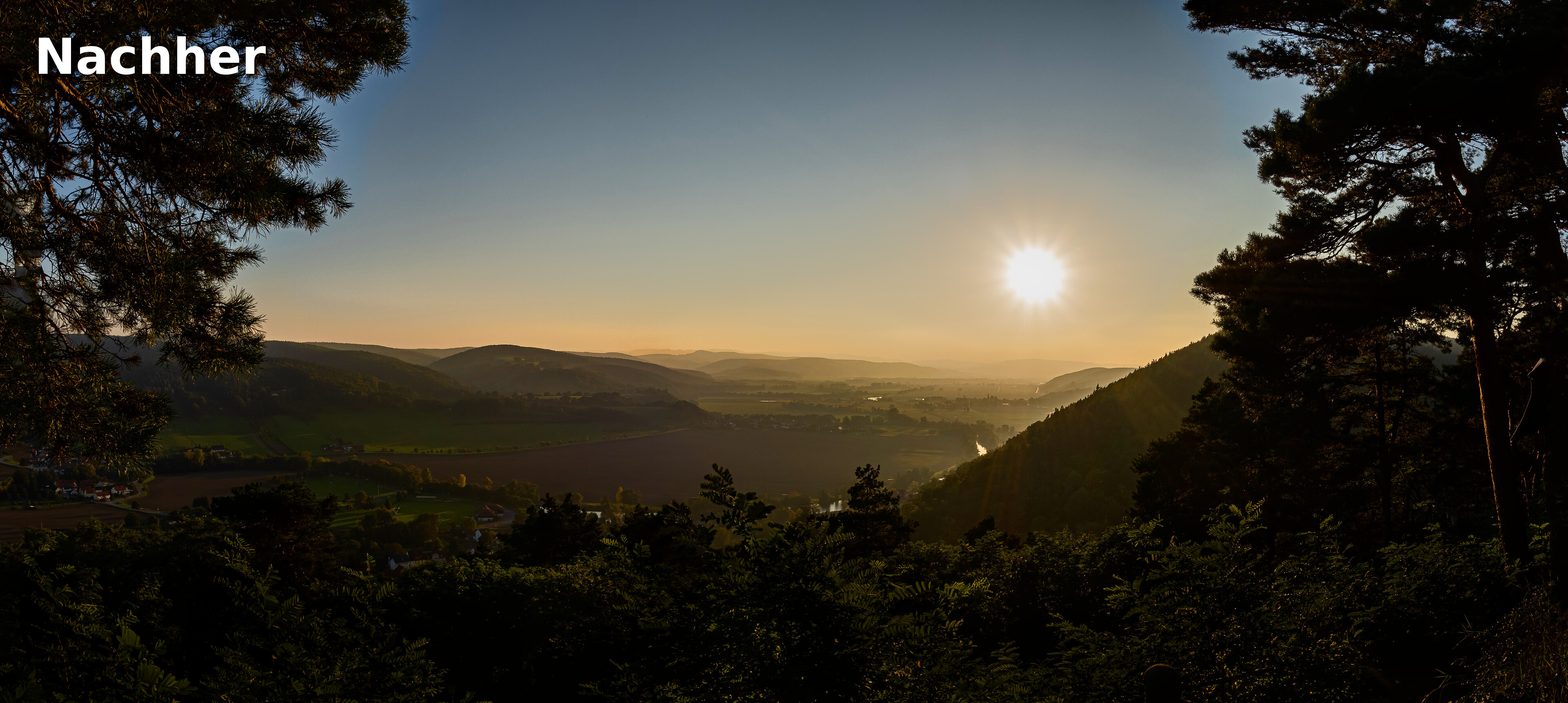
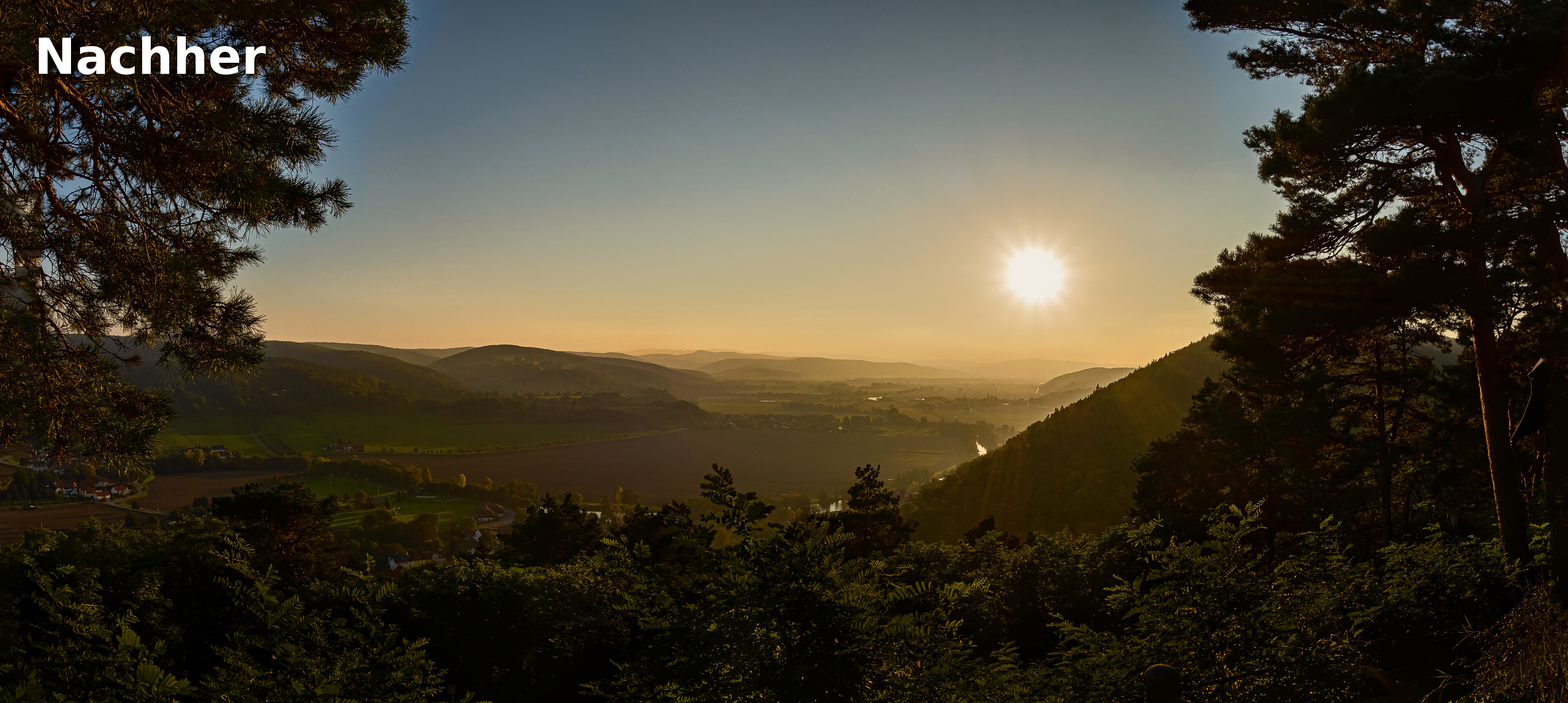
Startseite: Dunstbilder mit den neuesten Einstellungen (Tal heller, mehr Zeichnung), Tabelle der Einstellungen nachgezogen; beim 3D-Betrachter aufklappbarer Hintergrund, was ihn besonders macht

diff --git a/README.md b/README.md
@@ -71,12 +71,11 @@ Panorama ist in rund zehn Sekunden gerechnet.
 
 | Gruppe | Einstellung |
 |---|---|
-| Dunst | Stärke +36, 8 Durchläufe, Klarheit 42 %, Kontrast 22 %, Dynamik 25 %, Schärfe fein 33 %, Helligkeit 76 %, Entstufen 55 %, Dunstfarbe 51 % |
-| Gleiche Farbe | Gesamt 104 %, Luminanz 103 %, Zielwert 45 %, Ausgleichen 18 %, Farbe +4 |
-| Luminanzmaske | Stärke +38 %, Auslaufen 75 %, Verlauf 30 |
-| Licht | Kontrast +10, Tiefen +14, Lichter −100 |
-| Farbe | Dynamik +11 |
-| Körnung | Stärke 14 %, Korngröße 1,0 px, Rauheit 30 |
+| Dunst | Stärke +42, 8 Durchläufe, Klarheit 53 %, Kontrast 12 %, Dynamik 25 %, Schärfe fein 60 %, Helligkeit 85 %, Entstufen 50 %, Dunstfarbe 50 % |
+| Gleiche Farbe | Luminanz 117 %, Zielwert 48 %, Schwellwert 20 %, Farbe +30 |
+| Luminanzmaske | Stärke +19 %, Auslaufen 75 %, Verlauf 30 |
+| Licht | Kontrast +10, Tiefen +8, Lichter −100 |
+| Farbe | Dynamik +19, Sättigung −12 |
 
 </details>
 
@@ -192,6 +191,29 @@ Qualitätsstufe „Hoch“: glatte Rundungen, weiche Umgebungsschatten, Kanten a
 - **Messen:** zwei Flächen anklicken – Abstand und Winkel; Zylinderdurchmesser; Punkt zu Punkt mit ΔX/ΔY/ΔZ.
 - **Bearbeiten:** Längen ändern, Quader oder Zylinder hinzufügen und wegnehmen, Flächen verschieben, Formen zeichnen und aufbauen oder
   herausschneiden – mit Einrasten und Bemaßung, 30 Schritte rückgängig, Speichern als STL.
+
+<details>
+<summary><b>Was den Betrachter besonders macht</b></summary>
+
+- **Nichts sieht runder aus, als es ist.** Glatt gezeichnet werden nur Flächen, die der Betrachter selbst als Zylinder oder Rundung
+  erkannt hat, und nur dort, wo die Datei fein genug unterteilt ist. Ein Zylinder bekommt die exakte Richtung seiner Oberfläche,
+  Ebenen bleiben eben, Kanten scharf. Grob unterteilte Teile erscheinen so kantig, wie sie in der Datei stehen.
+- **Licht, das Formen zeigt.** Mattes Material, ein Hauptlicht von links oben, eine sanfte Aufhellung und eine Umgebungsverdeckung,
+  die Ecken, Bohrungen und Übergänge weich abdunkelt – gleich gut bei einer kleinen Schraube wie bei einem großen Gehäuse. Darunter
+  ein weicher Schatten auf dem Boden.
+- **Saubere Kanten.** Bis zu achtfache Kantenglättung, und ein feines Rauschen verhindert Stufen in langen Farbverläufen. Unter Linux
+  laufen außerdem die Kantenlinien weich aus und liegen genau auf der Kante, und auch Schnittkanten werden geglättet.
+- **Schnell auch bei großen Dateien.** Ein STL-Modell mit 5 Millionen Dreiecken ist in 0,4 Sekunden eingelesen und steht sofort auf dem
+  Bildschirm; die Flächenerkennung braucht danach 1,6 Sekunden, ein Messklick etwa zwei Millionstel Sekunden. Gezeichnet wird nur,
+  wenn sich etwas ändert – der Rechner bleibt ruhig.
+- **Gemessen wird an der Datei, nicht am Bild.** Alle Maße rechnet der Betrachter mit den Dreiecken der Datei in doppelter
+  Genauigkeit. Ebenen, Zylinder und Rundungen erkennt er selbst, auch in STL-Dateien, die davon nichts wissen.
+- **Vorsichtig mit Fremdem.** Dateien aus dem Netz werden mit festen Grenzen gelesen, damit eine beschädigte oder präparierte Datei
+  das Programm nicht lahmlegt.
+- **Eigenständig gebaut.** Die Darstellung spricht die Grafikkarte direkt über OpenGL an, ohne zusätzliche 3D-Bibliothek – unter
+  Linux und Windows.
+
+</details>
 
 ---
 
